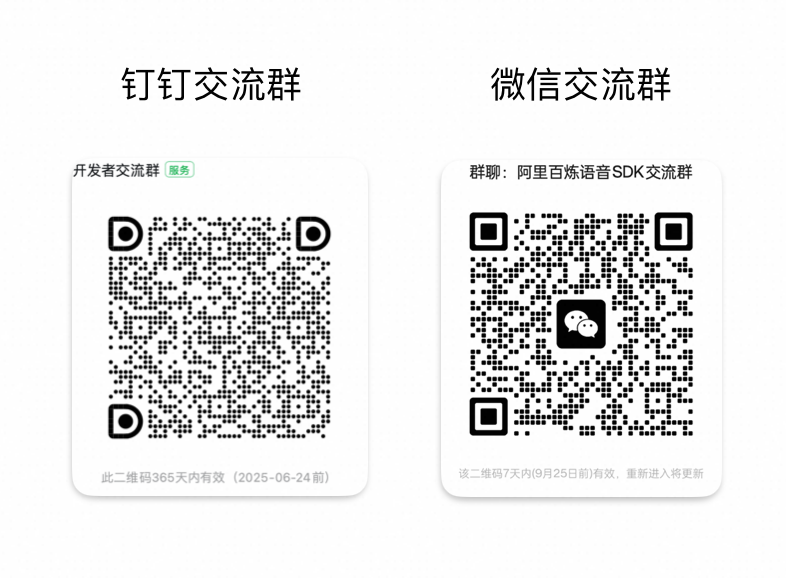
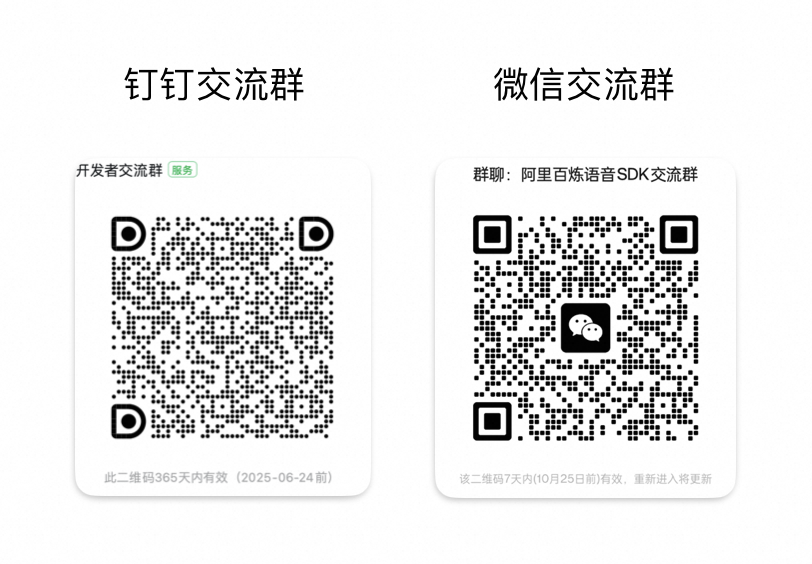
[update] wechat qr code and small bug fix

diff --git a/samples/speech-recognition/recognize_speech_from_files_by_realtime_mode/java/RecognizeSpeechFromFilesByRealtimeMode.java b/samples/speech-recognition/recognize_speech_from_files_by_realtime_mode/java/RecognizeSpeechFromFilesByRealtimeMode.java
@@ -116,6 +116,7 @@ class RealtimeRecognizeTask implements Runnable {
                 }
                 // Send the ByteBuffer to the recognition instance
                 recognizer.sendAudioFrame(byteBuffer);
+                buffer = new byte[32000 * 10];
             }
             System.out.println(LocalDateTime.now());
         } catch (Exception e) {

diff --git a/samples/speech-recognition/recognize_speech_from_files_by_realtime_mode/python/run.py b/samples/speech-recognition/recognize_speech_from_files_by_realtime_mode/python/run.py
@@ -88,6 +88,8 @@ def process_recognition(file_path):
 
     # Start recognition with the audio files
     recognition.start()
+    # This interface does not support PCM RAW format for compression.
+    # You can convert to WAV format for input.
     audio_decoder.decode_audio_in_blocks(file_path)
     # Stop recognition
     recognition.stop()
